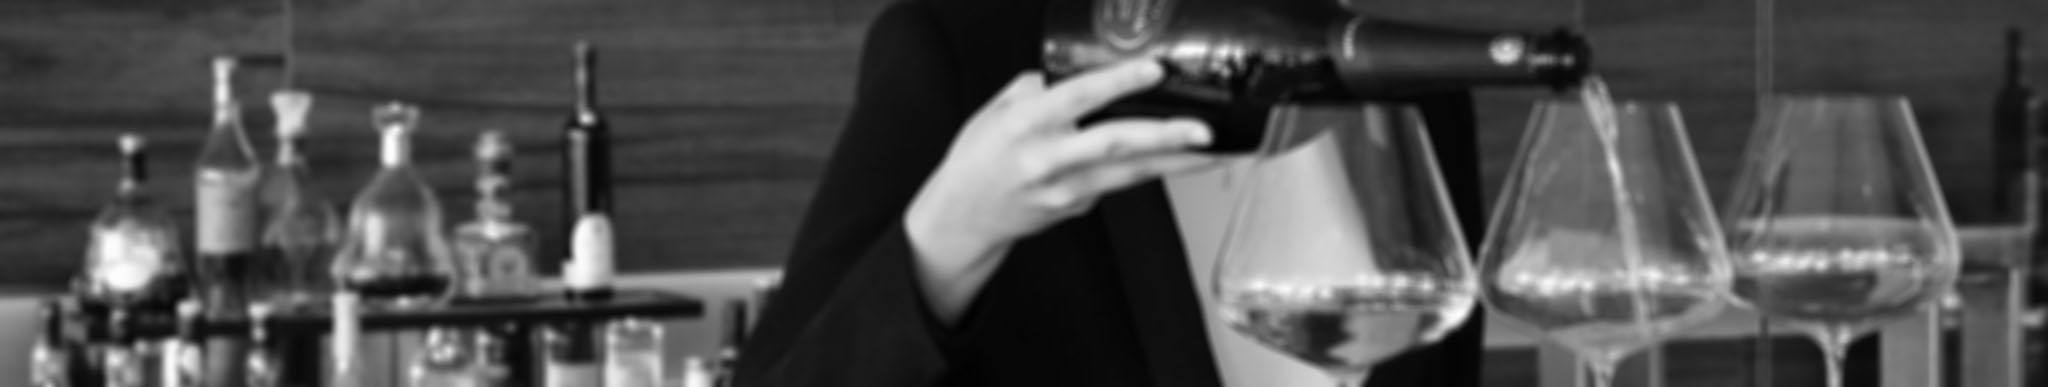
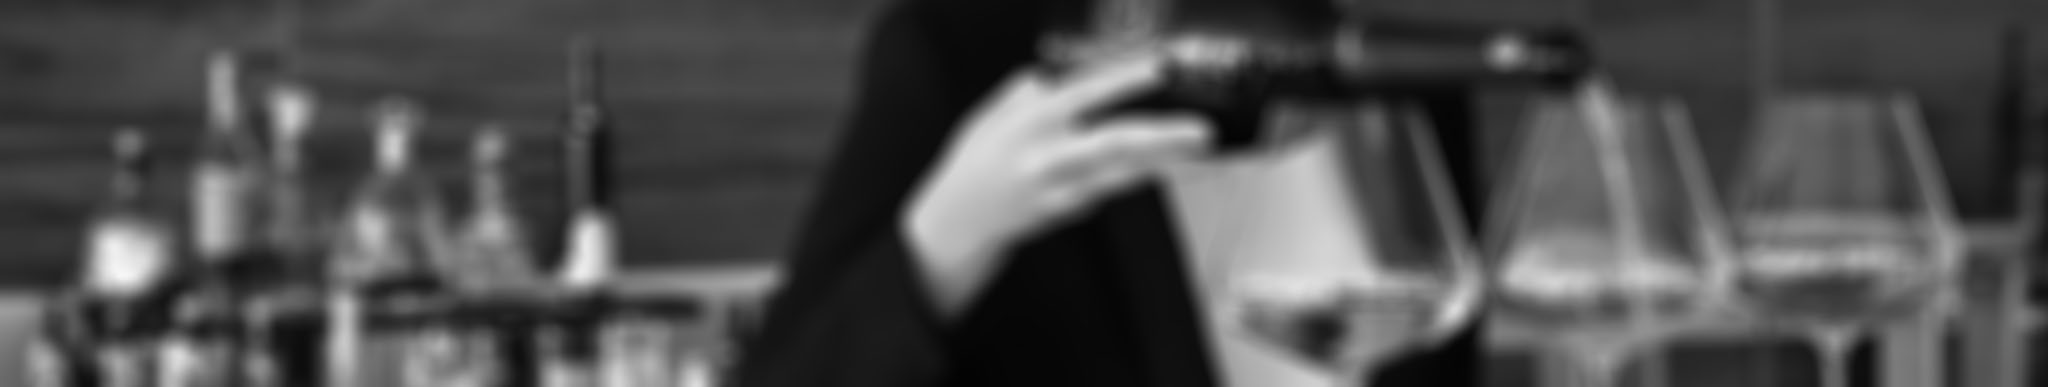
no message

diff --git a/resources/views/user/professional.blade.php b/resources/views/user/professional.blade.php
@@ -10,7 +10,7 @@
             <span class="profile-date"><a href="{{ route('calendar', Auth::user()->id) }}">{{ strtoupper(date('h:i A D j M Y')) }}</a></span>
          </div>
 
-         <div class="row account-resume">
+         <div class="row account-resume" style="background: url(images/annexe_test_blur.jpg) center center no-repeat; background-size: cover;">
             <div class="columns medium-3 medium-uncentered small-centered picture-column small-7">
                @if(file_exists("uploads/pp/".$user->id.".png"))
                   <img class="profile-picture" src=" uploads/pp/{{$user->id}}.png" alt="" />
